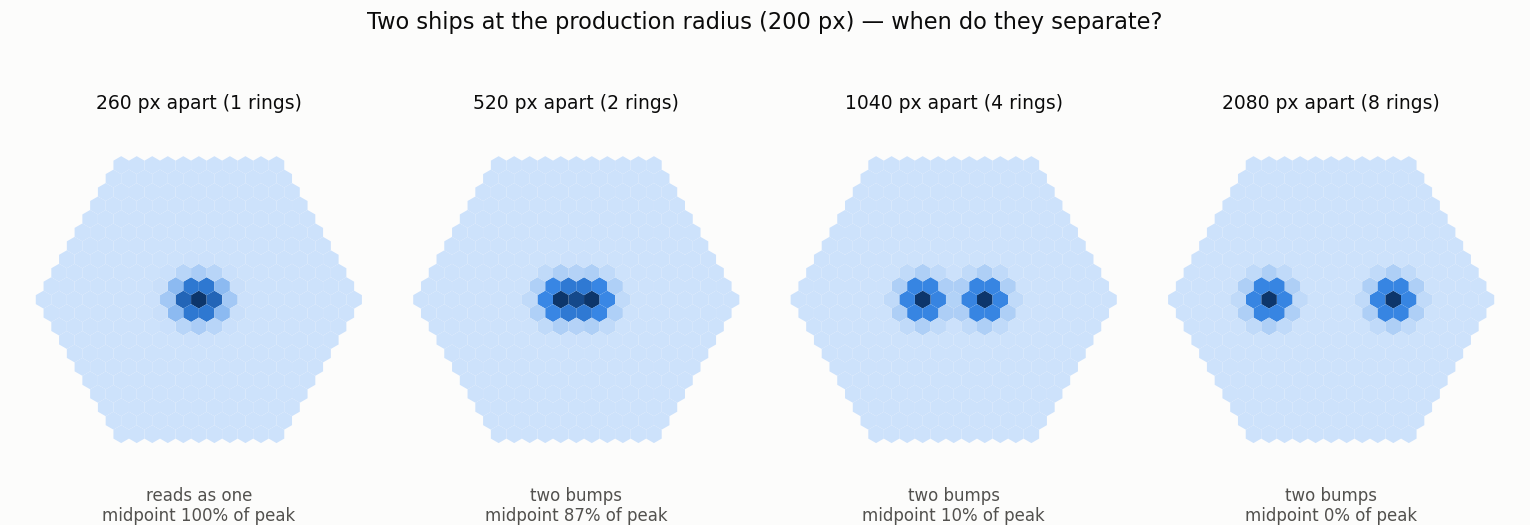
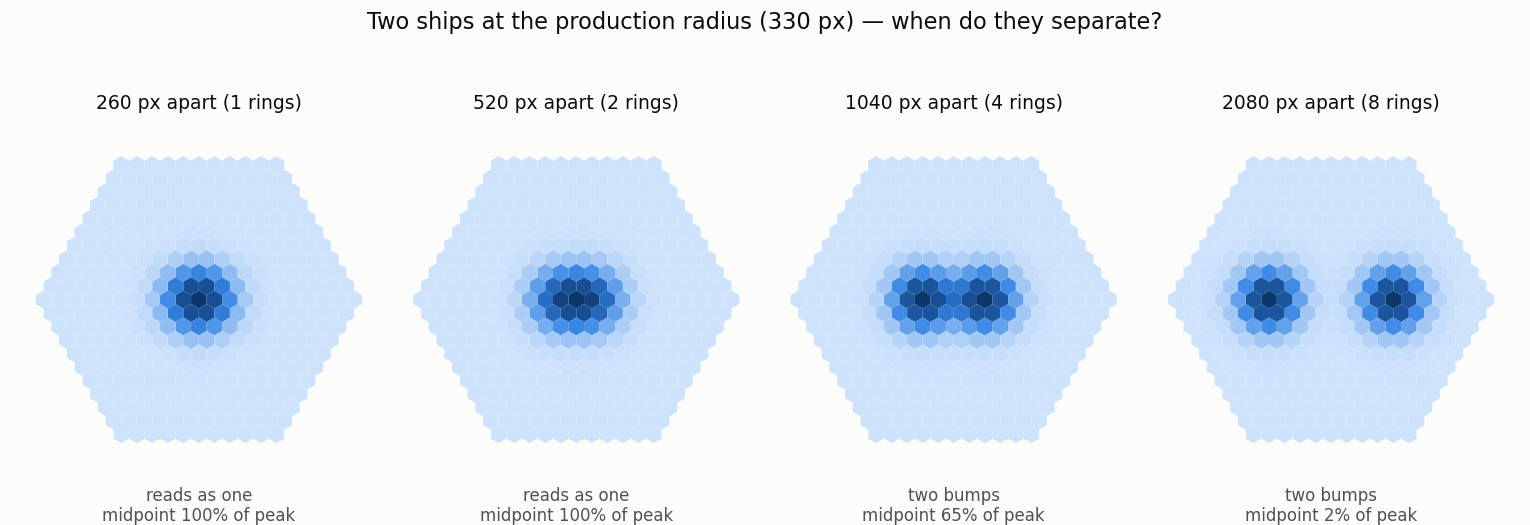
tune: set the presence radius to 330 px, the zone radius
With the density target no longer sharing the kernel, 200 px has only a
cost. 330 px matches the zone radius and puts the half-weight contour at
389 px, near the 393 px combat radius and inside the bullet's real 421 px
range. 150 px inverts the cross-scale response.

diff --git a/src/boost_and_broadside/train/rl/features.py b/src/boost_and_broadside/train/rl/features.py
@@ -383,26 +383,29 @@ class Feature:
 # px/s for a ``bullet_lifetime`` of 1 s -- so the kernel's half-weight contour sits
 # at roughly the distance from which a ship can be shot.
 #
-# Re-measured September 30 2026 and narrowed from 500 px
+# Narrowed from 500 px on September 30 2026, to the Frontline zone radius
 # (``benchmarks/presence_density_study.py``,
-# docs/internal/presence-radius-sep2026.json). The earlier 500 px rested on
-# "at 250 px the 5v5 enemy channel is dead, median 0.18 with most ships reading
-# zero", and that is no longer the scene distribution: the frontline mechanic
-# holds both fleets in contact, so the same 250 px now reads median 0.77. At
-# 200 px the 5v5 enemy channel carries median 0.55 with a 10th-to-90th spread of
-# 1.31 -- a live, discriminating feature, not a dead one.
+# docs/internal/presence-radius-sep2026.json).
 #
-# What the narrowing costs is *scale* discrimination, not 5v5 discrimination:
-# between 5v5 and 50v50 on the same map the enemy median separates by x1.18 at
-# 200 px against x1.98 at 500 px. That matters to the zero-shot crossover sweep
-# and not to training, which is all 5v5.
+# 500 px was justified as putting the kernel's half-weight contour "at roughly
+# the distance from which a ship can be shot", taking that distance as
+# ``bullet_speed * bullet_lifetime``. That ignores the bullet's quadratic drag:
+# simulated with the real constants a bullet travels 420.6 px, not 500, so the
+# half-weight contour at 1.177 * 500 = 589 px sat beyond anything a ship can
+# reach with.
 #
-# What it buys is resolution, and the reason for the change. This same kernel
-# smooths the hex density target, where at 500 px one ship lit a fifth of the
-# 331 cells and two ships did not read as two until ~2000 px apart -- 40% of the
-# playable diameter (docs/internal/density-audit-sep2026.md). The field could
-# express bulk position but not formation.
-PRESENCE_RADIUS = 200.0
+# 330 px is the zone radius exactly, so the feature reads "how contested is my
+# zone", and its half-weight contour at 389 px lands on the scripted agent's
+# combat radius of 393 and just inside the bullet's 421. The scripted shoot
+# ramp runs from certain at 200 px to stopped at 500 px, and this sits in the
+# middle of that band rather than past the end of it.
+#
+# Measured at 5v5 the enemy channel carries median 0.99 with a 10th-to-90th
+# spread of 1.53, and separates 5v5 from 50v50 on one map by x1.67 (against
+# 1.24 / 1.66 / x1.98 at 500 px). There is a floor not far below: at 150 px the
+# cross-scale response *inverts*, 50v50 reading less crowded than 5v5, which is
+# the feature failing rather than merely weakening.
+PRESENCE_RADIUS = 330.0
 # Divisor applied after ``log1p``. 1.0 -- the compression alone already lands the
 # feature in a usable range (5v5 medians 1.40 ally / 1.04 enemy, 50v50 on the same
 # map 3.44 / 3.16), so there is nothing left for a scale factor to fix.

diff --git a/docs/internal/density-audit-sep2026.md b/docs/internal/density-audit-sep2026.md
@@ -127,36 +127,42 @@ field this smooth cannot express formation, only bulk position, so a head that
 scores 0.91 on it has learned where the fleets roughly are and nothing about
 how they are arranged.
 
-### Resolved: 200 px, September 30 2026
+### Resolved: 330 px, September 30 2026
 
-Narrowed to 200 px, and kept coupled to `local_presence` rather than split, so
-"crowded" still means one thing at a ship and at a map cell.
+The kernel was narrowed, and then the density target stopped using a kernel at
+all (see *Replaced* below), so the radius was settled on `local_presence`'s own
+terms rather than on the density grid's.
 
-The prior basis for 500 px did not survive re-measurement. It rested on "at
-250 px the 5v5 enemy channel is dead, median 0.18 with most ships reading
-zero"; the frontline mechanic has since changed that scene distribution by
-holding both fleets in contact, and the same 250 px now reads a median of 0.77
-([`presence-radius-sep2026.json`](presence-radius-sep2026.json)). At 200 px the
-5v5 enemy channel carries a median of 0.55 with a 10th-to-90th spread of 1.31 —
-live and discriminating.
+The prior basis for 500 px did not survive re-measurement twice over. It rested
+on "at 250 px the 5v5 enemy channel is dead, median 0.18" — the frontline
+mechanic has since changed that scene distribution by holding both fleets in
+contact, and the same 250 px now reads 0.77
+([`presence-radius-sep2026.json`](presence-radius-sep2026.json)). And its own
+stated criterion, a half-weight contour at the distance a ship can be shot from,
+took that distance as `bullet_speed × bullet_lifetime` = 500 px; simulated with
+the real quadratic drag a bullet travels **420.6 px**, so 500 px put the contour
+at 589 px, beyond any weapon.
 
-| | one ship lights | two ships separate at |
-|---|---:|---:|
-| 500 px | 22% of cells | ~2080 px (8 rings) |
-| **200 px** | **4% of cells** | **520 px (2 rings)** |
+**330 px is the zone radius exactly.** Its half-weight contour at 389 px lands on
+the scripted agent's 393 px combat radius and just inside the bullet's 421,
+sitting in the middle of the 200–500 px band over which that agent's shooting
+falls from certain to nil rather than past the end of it.
 
-A four-fold gain in resolution, which is what the change was for.
+| r | 5v5 enemy p50 | spread | 5v5→50v50 |
+|---|---:|---:|---:|
+| 150 | 0.26 | 1.13 | ×0.78 — **inverted** |
+| 200 | 0.55 | 1.31 | ×1.18 |
+| **330** | **0.99** | **1.53** | **×1.67** |
+| 500 (was) | 1.24 | 1.66 | ×1.98 |
 
-The cost is separation *across* fleet sizes, not within 5v5: the enemy median
-between 5v5 and 50v50 on one map falls from ×1.98 to ×1.18. That bears on the
-zero-shot crossover sweep, which is not what this run is doing, and is the
-thing to re-check if scale transfer matters again.
+At 150 px the cross-scale response inverts — 50v50 reads less crowded than 5v5 —
+which is the feature failing rather than weakening, and marks the floor.
 
-Two consequences to carry forward. `RELATION_RADIUS` aliases this constant, so
-the relational bias narrows with it — inert while `relational_bias` is off, as
-it is in every current profile, but not free later. And `local_presence` is a
-policy *input*, so run 748's checkpoint now reads a feature distribution it was
-not trained on; this is one more reason the next run starts fresh.
+One consequence to carry forward: `RELATION_RADIUS` aliases this constant, so
+the relational bias narrows with it. Inert while `relational_bias` is off, as it
+is in every current profile, but not free later. And `local_presence` is a policy
+*input*, so run 748's checkpoint reads a feature distribution it was not trained
+on — one more reason the next run starts fresh.
 
 ## What this changes
 

diff --git a/docs/architecture.md b/docs/architecture.md
@@ -121,17 +121,17 @@ every contributing ship and compressed with `log1p` — permutation invariant, s
 on the ally channel, and masked by the same belief validity attention keys on, so a ship
 never counts a neighbour it is not allowed to see.
 
-The 200 px radius and the `log1p` compression are measured rather than assumed
+The 330 px radius and the `log1p` compression are measured rather than assumed
 ([`presence_density_study.py`](../benchmarks/presence_density_study.py)). The radius was
-500 px until September 2026, chosen when 250 px left the 5v5 enemy channel dead at a
-median of 0.18. The frontline mechanic changed that distribution — it holds both fleets
-in contact — and the same 250 px now reads 0.77, so the constraint that set 500 px no
-longer binds. At 200 px the 5v5 enemy channel carries a median of 0.55 with a
-10th-to-90th spread of 1.31; at 1000 px the 5v5 ally spread collapses because every ship
-reads crowded. Narrowing costs separation *across* fleet sizes (5v5 to 50v50 on one map
-falls from ×1.98 to ×1.18, which bears on the crossover sweep rather than on training)
-and buys resolution on the hex density target, which shares this kernel — see
-[the density audit](internal/density-audit-sep2026.md). A bounded `s/(s+k)` compresses the crowded end into 0.02 of its range at
+500 px until September 2026, justified as putting the kernel's half-weight contour at the
+distance from which a ship can be shot — taking that as `bullet_speed × bullet_lifetime`,
+which ignores the bullet's quadratic drag. A bullet actually travels 420.6 px, so the
+contour at 589 px sat beyond any weapon. 330 px is the zone radius exactly, and its
+half-weight contour at 389 px lands on the scripted agent's 393 px combat radius, inside
+the 200–500 px band over which that agent's shooting probability falls from certain to
+nil. At 5v5 the enemy channel then carries a median of 0.99 with a 10th-to-90th spread of
+1.53; at 1000 px the ally spread collapses because every ship reads crowded, and at 150 px
+the cross-fleet-size response inverts, which is the floor. A bounded `s/(s+k)` compresses the crowded end into 0.02 of its range at
 50 ships a side, where `log1p` keeps 0.38 — the difference between a count and a sense of
 crowding, which is the semantics wanted.
 
